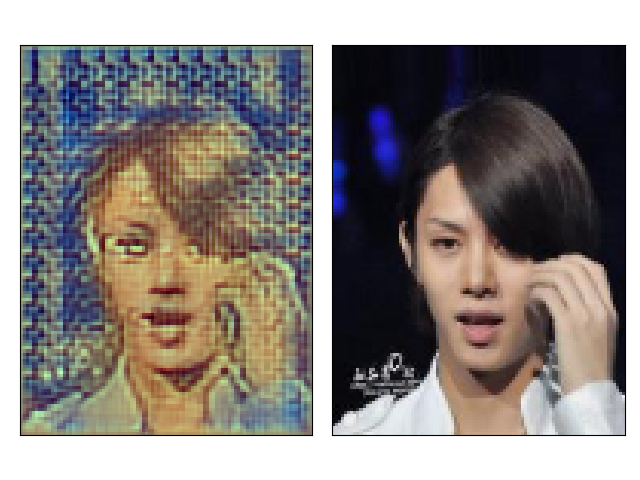
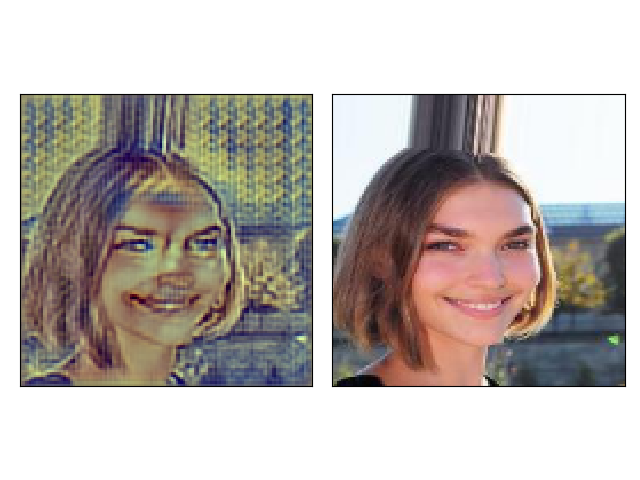
celeb a run started

diff --git a/src/networks/inference_network.py b/src/networks/inference_network.py
@@ -7,38 +7,38 @@ class InferenceNetwork(tf.keras.Model):
         self.n_classes = n_classes
         # eg.: 128 x 128 x 3
         self.down_conv_1 = tf.keras.layers.Conv2D(filters=64,
-                                                  kernel_size=(3, 3),
+                                                  kernel_size=(2, 2),
                                                   padding='valid',
                                                   activation='relu')
-        # eg.: 126 x 126 x 32
+        # eg.: 127 x 127 x 64
         self.downsample_1 = tf.keras.layers.Conv2D(filters=128,
-                                                   kernel_size=(2, 2),
+                                                   kernel_size=(3, 3),
                                                    strides=(2, 2),
                                                    padding='valid',
                                                    activation='relu')
-        # eg.: 63 x 63 x 64
+        # eg.: 63 x 63 x 128
         self.down_conv_2 = tf.keras.layers.Conv2D(filters=128,
                                                   kernel_size=(2, 2),
                                                   padding='valid',
                                                   activation='relu')
-        # eg.: 62 x 62 x 64
+        # eg.: 62 x 62 x 128
         self.downsample_2 = tf.keras.layers.Conv2D(filters=256,
                                                    kernel_size=(2, 2),
                                                    strides=(2, 2),
                                                    padding='valid',
                                                    activation='relu')
-        # eg.: 31 x 31 x 128
+        # eg.: 31 x 31 x 256
         self.down_conv_3 = tf.keras.layers.Conv2D(filters=256,
-                                                  kernel_size=(3, 3),
+                                                  kernel_size=(2, 2),
                                                   padding='valid',
                                                   activation='relu')
-        # eg.: 29 x 29 x 128
+        # eg.: 30 x 30 x 256
         self.downsample_3 = tf.keras.layers.Conv2D(filters=512,
-                                                   kernel_size=(3, 3),
+                                                   kernel_size=(2, 2),
                                                    strides=(2, 2),
                                                    padding='valid',
                                                    activation='relu')
-        # eg.: 14 x 14 x 256
+        # eg.: 15 x 15 x 512
         self.bottom_conv1 = tf.keras.layers.Conv2D(filters=512,
                                                    kernel_size=(2, 2),
                                                    padding='valid',
@@ -48,40 +48,62 @@ class InferenceNetwork(tf.keras.Model):
                                                    kernel_size=(2, 2),
                                                    padding='valid',
                                                    activation='relu')
-        # eg.: 12 x 12 x 256
-        self.upsample_3 = tf.keras.layers.Conv2DTranspose(filters=512,
-                                                          kernel_size=(7, 7),
-                                                          strides=(2, 2),
-                                                          padding='valid',
-                                                          activation='relu')
-        # eg. : 29 x 29 x 128
-        self.up_conv_3_1 = tf.keras.layers.Conv2D(filters=256,
-                                                  kernel_size=(2, 2),
-                                                  padding='valid',
-                                                  activation='relu')
-        # eg. : 28 x 28 x 128
-        self.upsample_2 = tf.keras.layers.Conv2DTranspose(filters=128,
-                                                          kernel_size=(8, 8),
-                                                          strides=(2, 2),
-                                                          padding='valid',
-                                                          activation='relu')
-        # eg. : 62 x 62 x 64
-        self.up_conv_2_1 = tf.keras.layers.Conv2D(filters=128,
-                                                  kernel_size=(2, 2),
-                                                  padding='valid',
-                                                  activation='relu')
-        # eg. : 61 x 61 x 64
-        self.upsample_1 = tf.keras.layers.Conv2DTranspose(filters=128,
+
+        self.bili3_conv = tf.keras.layers.Conv2D(256,
+                                                 kernel_size=(4, 4),
+                                                 activation='relu',
+                                                 padding='valid')
+
+        self.upsample_3_bili = tf.keras.layers.UpSampling2D(
+            size=(3, 3), interpolation='bilinear')
+
+        # eg.: 12 x 12 x 512
+        self.upsample_3 = tf.keras.layers.Conv2DTranspose(filters=256,
                                                           kernel_size=(6, 6),
                                                           strides=(2, 2),
                                                           padding='valid',
                                                           activation='relu')
-        # eg.:  126 x 126 x 32
+        # eg. : 30 x 30 x 256
+        self.up_conv_3_1 = tf.keras.layers.Conv2D(filters=256,
+                                                  kernel_size=(2, 2),
+                                                  padding='valid',
+                                                  activation='relu')
+
+        # eg. : 29 x 29 x 256
+        self.upsample_2 = tf.keras.layers.Conv2DTranspose(filters=128,
+                                                          kernel_size=(6, 6),
+                                                          strides=(2, 2),
+                                                          padding='valid',
+                                                          activation='relu')
+        # eg. : 64 x 64 x 128
+        self.up_conv_2_1 = tf.keras.layers.Conv2D(filters=128,
+                                                  kernel_size=(2, 2),
+                                                  padding='valid',
+                                                  activation='relu')
+
+        # eg. : 63 x 63 x 128
+        self.bili1_conv = tf.keras.layers.Conv2D(64,
+                                                 kernel_size=(2, 2),
+                                                 activation='relu',
+                                                 padding='valid')
+
+        # eg. : 63 x 63 x 128
+        self.upsample_1_bili = tf.keras.layers.UpSampling2D(
+            size=(2, 2), interpolation='bilinear')
+
+        # eg. : 63 x 63 x 128
+        self.upsample_1 = tf.keras.layers.Conv2DTranspose(filters=64,
+                                                          kernel_size=(7, 7),
+                                                          strides=(2, 2),
+                                                          padding='valid',
+                                                          activation='relu')
+
+        # eg. : 127 x 127 x 64
         self.up_conv_1_1 = tf.keras.layers.Conv2DTranspose(filters=64,
-                                                           kernel_size=(4, 4),
+                                                           kernel_size=(3, 3),
                                                            padding='valid',
                                                            activation='relu')
-        # eg.: 129 x 129 x 32
+        # eg.: 129 x 129 x 64
         self.reco = tf.keras.layers.Conv2D(filters=self.n_classes,
                                            kernel_size=(2, 2),
                                            padding='valid')
@@ -103,17 +125,24 @@ class InferenceNetwork(tf.keras.Model):
         x = tf.contrib.layers.instance_norm(x)
         x = self.bottom_conv2(x)
         x = tf.contrib.layers.instance_norm(x)
+        x_3 = self.bili3_conv(x)
+        x_3 = self.upsample_3_bili(x_3)
         x = self.upsample_3(x)
-        x = tf.keras.layers.Concatenate()([x, x3])
+        x = tf.keras.layers.Concatenate()([x, x3, x_3])
         x = self.up_conv_3_1(x)
         x = tf.contrib.layers.instance_norm(x)
         x = self.upsample_2(x)
         x = tf.keras.layers.Concatenate()([x, x2])
         x = self.up_conv_2_1(x)
         x = tf.contrib.layers.instance_norm(x)
+        x_1 = self.upsample_1_bili(x)
+        x_1 = self.bili1_conv(x_1)
         x = self.upsample_1(x)
-        x = tf.keras.layers.Concatenate()([x, x1])
+        paddings = [[0, 0], [3, 3], [3, 3], [0, 0]]
+        x = tf.keras.layers.Concatenate()(
+            [x, x1, tf.pad(x_1, paddings, "CONSTANT")])
         x = self.up_conv_1_1(x)
         x = tf.contrib.layers.instance_norm(x)
+        print(x.get_shape().as_list())
         x = self.reco(x)
         return x

diff --git a/src/train_utils/train.py b/src/train_utils/train.py
@@ -28,32 +28,29 @@ class ModelTrainer:
         block3_conv1   # for style
         block4_conv1   # for style
         """
-        channels = tf.cast(tf.shape(content_loss['block5_conv2'])[-1],
-                           dtype=tf.int32)
-        area = tf.cast(tf.reduce_prod(tf.shape(content_loss['block5_conv2'])) /
-                       (channels * self.batch_size),
-                       dtype=tf.int32)
-        feature_final_loss = 5e2 / tf.cast(
-            area * channels * self.batch_size,
+        bs, height, width, channels = content_loss['block5_conv2'].get_shape(
+        ).as_list()
+        feature_final_loss = 1e3 / tf.cast(
+            2 * height * width * channels * self.batch_size,
             dtype=tf.float32) * tf.reduce_sum(
                 tf.square(content_loss['block5_conv2'] - loss['block5_conv2']))
 
         style_final_loss = tf.cast(0., dtype=tf.float32)
         for loss_layer in [
-                'block1_conv1', 'block2_conv1', 'block3_conv1', 'block4_conv1'
+                'block1_conv1', 'block2_conv1', 'block3_conv1', 'block4_conv1',
+                'block5_conv1'
         ]:
             gram_style = self._gram_matrix(self.style_loss[loss_layer])
             gram_reco = self._gram_matrix(loss[loss_layer])
             gram_diff = gram_reco - gram_style
             bs, height, width, channels = loss[loss_layer].get_shape().as_list(
             )
-            style_final_loss += 1e-2 * 0.25 * tf.reduce_sum(gram_diff**
-                                                            2)  # frob-norm
+            style_final_loss += (1e-2 / 5) * tf.reduce_sum(gram_diff**
+                                                           2)  # frob-norm
         total_var_loss = 1e-4 * tf.reduce_sum(tf.image.total_variation(reco))
         print('Style : ', style_final_loss)
         print('Feature : ', feature_final_loss)
         print('TV loss : ', total_var_loss)
-        #return feature_final_loss + total_var_loss
         return style_final_loss + feature_final_loss + total_var_loss
 
     def _gram_matrix(self, tensor):

diff --git a/test_inference_network.py b/test_inference_network.py
@@ -11,7 +11,7 @@ from tensorflow import keras
 
 from src import InferenceNetwork
 
-IMAGE_SIZE = 80
+IMAGE_SIZE = 128
 
 logdir = "logs/scalars/" + datetime.now().strftime("%Y%m%d-%H%M%S")
 tensorboard_callback = keras.callbacks.TensorBoard(log_dir=logdir)
@@ -19,8 +19,8 @@ tensorboard_callback = keras.callbacks.TensorBoard(log_dir=logdir)
 (train, train_labels), (test, test_labels) = load_data()
 
 # Resize
-train = tf.reshape(train / 255., shape=(train.shape[0], 32, 32, 3))
-test = tf.reshape(test / 255., shape=(test.shape[0], 32, 32, 3))
+train = tf.reshape(train[:800] / 255., shape=(800, 32, 32, 3))
+test = tf.reshape(test[:16] / 255., shape=(16, 32, 32, 3))
 
 train = tf.image.resize_images(train, size=(IMAGE_SIZE, IMAGE_SIZE))
 test = tf.image.resize_images(test, size=(IMAGE_SIZE, IMAGE_SIZE))
@@ -41,14 +41,14 @@ def mse_loss(x, y):
 inference_net = InferenceNetwork(n_classes=3)
 inference_net.compile(tf.train.AdamOptimizer(1e-3), loss=mse_loss)
 
-inference_net.fit(x=train[:1600],
-                  y=train[:1600],
-                  batch_size=32,
+inference_net.fit(x=train,
+                  y=train,
+                  batch_size=2,
                   epochs=5,
                   verbose=1,
                   callbacks=[tensorboard_callback])
 
-test_predictions = inference_net.predict(test[:16], batch_size=4, verbose=1)
+test_predictions = inference_net.predict(test, batch_size=2, verbose=1)
 
 import matplotlib.pyplot as plt
 

diff --git a/train_celeba.py b/train_celeba.py
@@ -15,7 +15,7 @@ from src import ModelTrainer
 BUFFER_SIZE = 50000
 BATCH_SIZE = 4
 WIDTH = 128
-HEIGHT = 96
+HEIGHT = 128
 
 style_image = plt.imread('starry_night.jpg')
 style_image = tf.Variable(style_image, name='style_image')
@@ -41,4 +41,4 @@ images = [resize_image(str(path)) for path in all_image_paths]
 train = tf.data.Dataset.from_tensor_slices(images).shuffle(BUFFER_SIZE).batch(
     BATCH_SIZE)
 
-trainer.train(train, lr=1e-3, epochs=10)
+trainer.train(train, lr=5e-4, epochs=100)

diff --git a/src/networks/loss_network_vgg16.py b/src/networks/loss_network_vgg16.py
@@ -16,6 +16,7 @@ class LossNetwork(tf.keras.Model):
             "block2_conv1": None,  # style
             "block3_conv1": None,  # style
             "block4_conv1": None,  # style
+            "block5_conv1": None,  # style
         }
         for layer in self.base_model.layers:
             x = layer(x)

diff --git a/train.py b/train.py
@@ -2,6 +2,9 @@
 import warnings
 warnings.simplefilter(action='ignore', category=FutureWarning)
 
+import os
+os.environ['CUDA_VISIBLE_DEVICES'] = '1'
+
 import tensorflow as tf
 tf.enable_eager_execution()
 from tensorflow.keras.datasets.cifar10 import load_data
